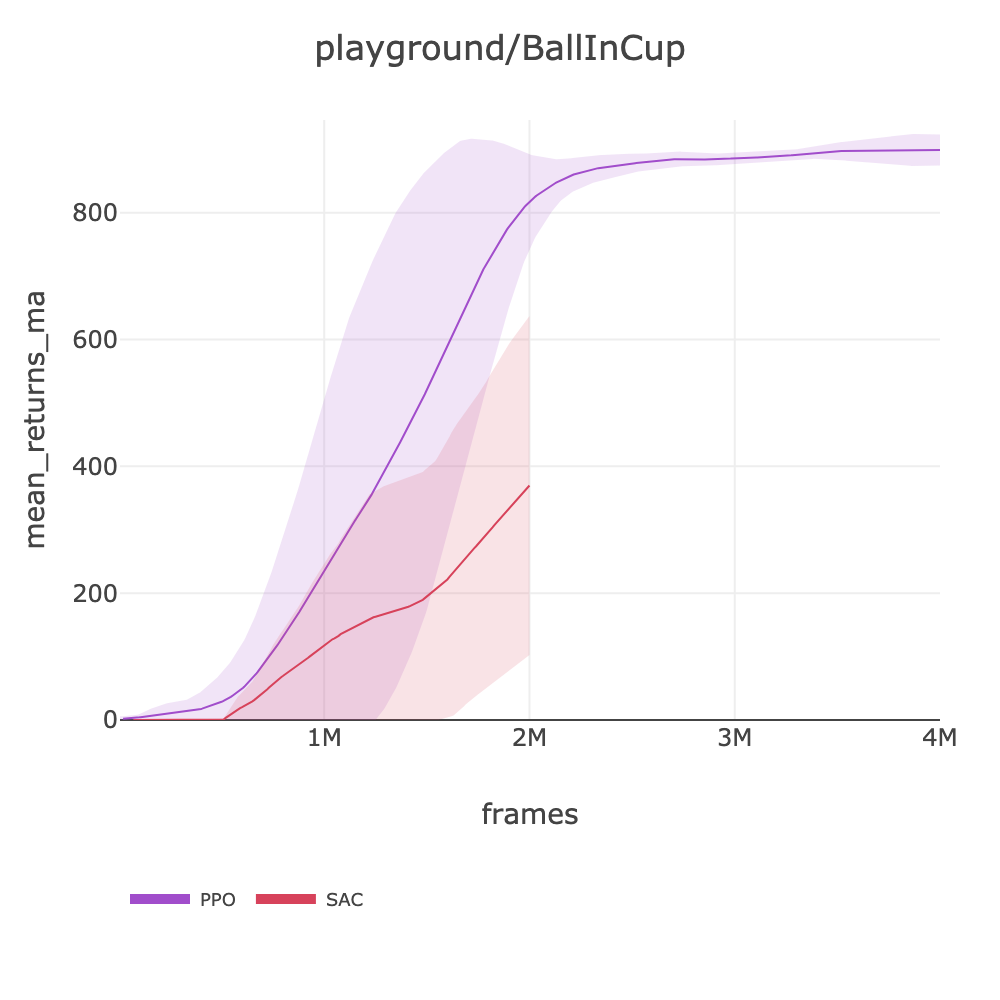
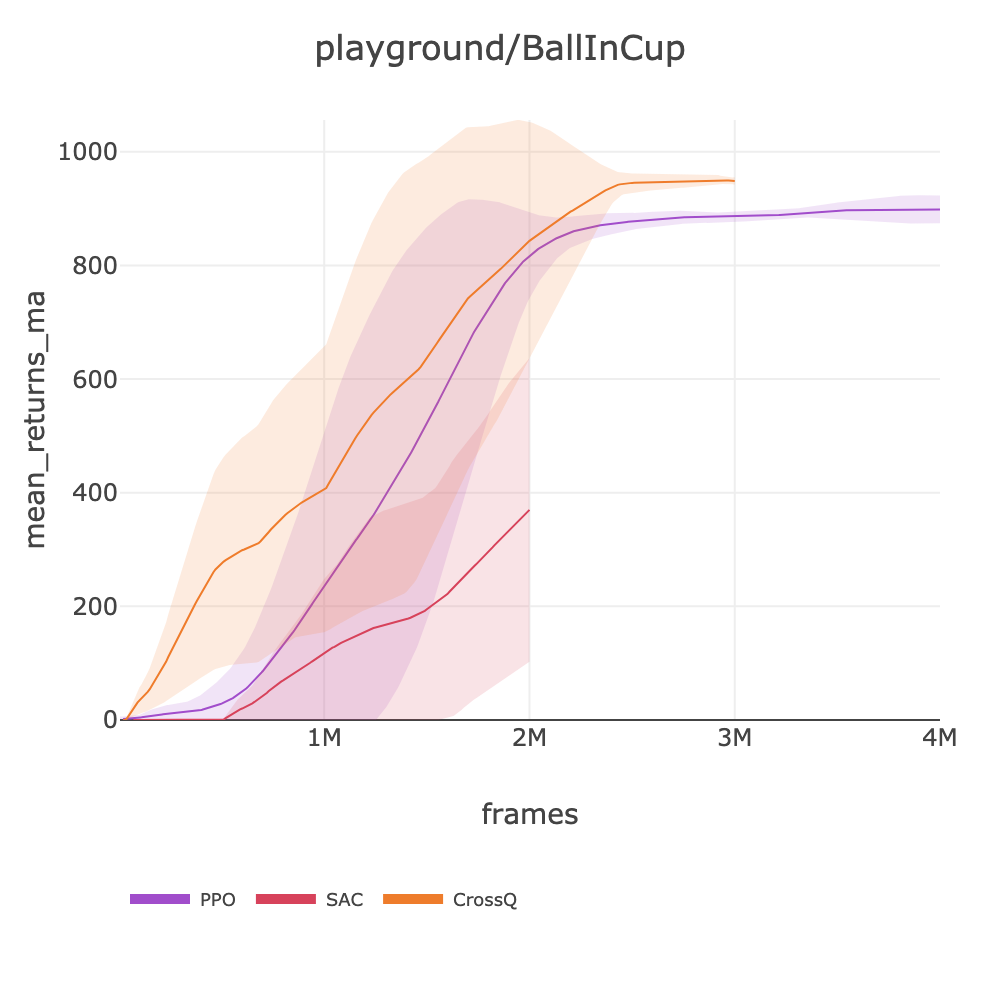
feat: intake SAC FingerTurnHard=227.83, CrossQ BallInCup=948.62
SAC FingerTurnHard: 198.22->227.83 (4M frames, now warning status)
CrossQ BallInCup: 247.26->948.62 (3M frames, now PASSES target!)
Updated plots with PPO+SAC+CrossQ comparison.

diff --git a/docs/BENCHMARKS.md b/docs/BENCHMARKS.md
@@ -832,7 +832,7 @@ source .env && uv run slm-lab run-remote --gpu --playground \
 | | CrossQ | ❌ | 0.01 | crossq_playground_arc | [crossq_playground_arc_hard_acrobotswingupsparse_2026_03_08_201346](https://huggingface.co/datasets/SLM-Lab/benchmark-dev/tree/main/data/crossq_playground_arc_hard_acrobotswingupsparse_2026_03_08_201346) | | ~500 | 2M | ~1.1h |
 | | SAC | ❌ | 0.00 | sac_playground_arc_hard | [sac_playground_arc_utd1_acrobotswingupsparse_2026_03_06_221029](https://huggingface.co/datasets/SLM-Lab/benchmark-dev/tree/main/data/sac_playground_arc_utd1_acrobotswingupsparse_2026_03_06_221029) | | ~67 | 1M | ~4.1h |
 | playground/BallInCup | PPO | ⚠ | 898.71 | ppo_playground_arc | [ppo_playground_arc_ballincup_2026_03_07_085829](https://huggingface.co/datasets/SLM-Lab/benchmark-dev/tree/main/data/ppo_playground_arc_ballincup_2026_03_07_085829) | ~944 | ~242 | 4M | ~4.6h |
-| | CrossQ | ❌ | 247.26 | crossq_playground_arc | [crossq_playground_arc_easy_ballincup_2026_03_07_214135](https://huggingface.co/datasets/SLM-Lab/benchmark-dev/tree/main/data/crossq_playground_arc_easy_ballincup_2026_03_07_214135) | | ~545 | 2M | ~1.0h |
+| | CrossQ | ✅ | 948.62 | crossq_playground_arc | [crossq_playground_arc_ballincup_2026_03_10_095156](https://huggingface.co/datasets/SLM-Lab/benchmark-dev/tree/main/data/crossq_playground_arc_ballincup_2026_03_10_095156) | | ~289 | 3M | ~2.9h |
 | | SAC | ❌ | 369.78 | sac_playground_arc_fast | [sac_playground_arc_fast_ballincup_2026_03_07_082212](https://huggingface.co/datasets/SLM-Lab/benchmark-dev/tree/main/data/sac_playground_arc_fast_ballincup_2026_03_07_082212) | | ~344 | 2M | ~1.6h |
 | playground/CartpoleBalance | PPO | ⚠ | 918.12 | ppo_playground_arc | [ppo_playground_arc_cartpolebalance_2026_03_06_153756](https://huggingface.co/datasets/SLM-Lab/benchmark-dev/tree/main/data/ppo_playground_arc_cartpolebalance_2026_03_06_153756) | ~995 | ~2000 | 2M | ~0.3h |
 | | SAC | ❌ | 613.83 | sac_playground_arc_dr128 | [sac_playground_arc_dr128_cartpolebalance_2026_03_06_181905](https://huggingface.co/datasets/SLM-Lab/benchmark-dev/tree/main/data/sac_playground_arc_dr128_cartpolebalance_2026_03_06_181905) | | ~3540 | 10M | ~0.8h |
@@ -857,7 +857,7 @@ source .env && uv run slm-lab run-remote --gpu --playground \
 | | SAC | ❌ | 407.10 | sac_playground_arc_fast | [sac_playground_arc_fast_fingerturneasy_2026_03_10_094949](https://huggingface.co/datasets/SLM-Lab/benchmark-dev/tree/main/data/sac_playground_arc_fast_fingerturneasy_2026_03_10_094949) | | ~424 | 4M | ~2.6h |
 | playground/FingerTurnHard | PPO | ✅ | 328.15 | ppo_playground_arc | [ppo_playground_arc_fingerturnhard_2026_03_07_100533](https://huggingface.co/datasets/SLM-Lab/benchmark-dev/tree/main/data/ppo_playground_arc_fingerturnhard_2026_03_07_100533) | ~249 | ~395 | 4M | ~2.8h |
 | | CrossQ | ✅ | 330.96 | crossq_playground_arc | [crossq_playground_arc_easy_fingerturnhard_2026_03_07_215920](https://huggingface.co/datasets/SLM-Lab/benchmark-dev/tree/main/data/crossq_playground_arc_easy_fingerturnhard_2026_03_07_215920) | | ~600 | 2M | ~0.9h |
-| | SAC | ❌ | 198.22 | sac_playground_arc_fast | [sac_playground_arc_fast_fingerturnhard_2026_03_06_181841](https://huggingface.co/datasets/SLM-Lab/benchmark-dev/tree/main/data/sac_playground_arc_fast_fingerturnhard_2026_03_06_181841) | | ~413 | 2M | ~1.3h |
+| | SAC | ⚠ | 227.83 | sac_playground_arc_fast | [sac_playground_arc_fast_fingerturnhard_2026_03_10_095142](https://huggingface.co/datasets/SLM-Lab/benchmark-dev/tree/main/data/sac_playground_arc_fast_fingerturnhard_2026_03_10_095142) | | ~409 | 4M | ~2.7h |
 | playground/FishSwim | PPO | ❌ | 81.68 | ppo_playground_arc | [ppo_playground_arc_fishswim_2026_03_07_100539](https://huggingface.co/datasets/SLM-Lab/benchmark-dev/tree/main/data/ppo_playground_arc_fishswim_2026_03_07_100539) | ~136 | ~355 | 4M | ~3.1h |
 | | CrossQ | ❌ | 89.72 | crossq_playground_arc | [crossq_playground_arc_easy_fishswim_2026_03_07_210346](https://huggingface.co/datasets/SLM-Lab/benchmark-dev/tree/main/data/crossq_playground_arc_easy_fishswim_2026_03_07_210346) | | ~475 | 2M | ~1.2h |
 | | SAC | ❌ | 98.57 | sac_playground_arc_fast | [sac_playground_arc_fishswim_2026_03_06_134402](https://huggingface.co/datasets/SLM-Lab/benchmark-dev/tree/main/data/sac_playground_arc_fishswim_2026_03_06_134402) | | ~114 | 2M | ~4.9h |
